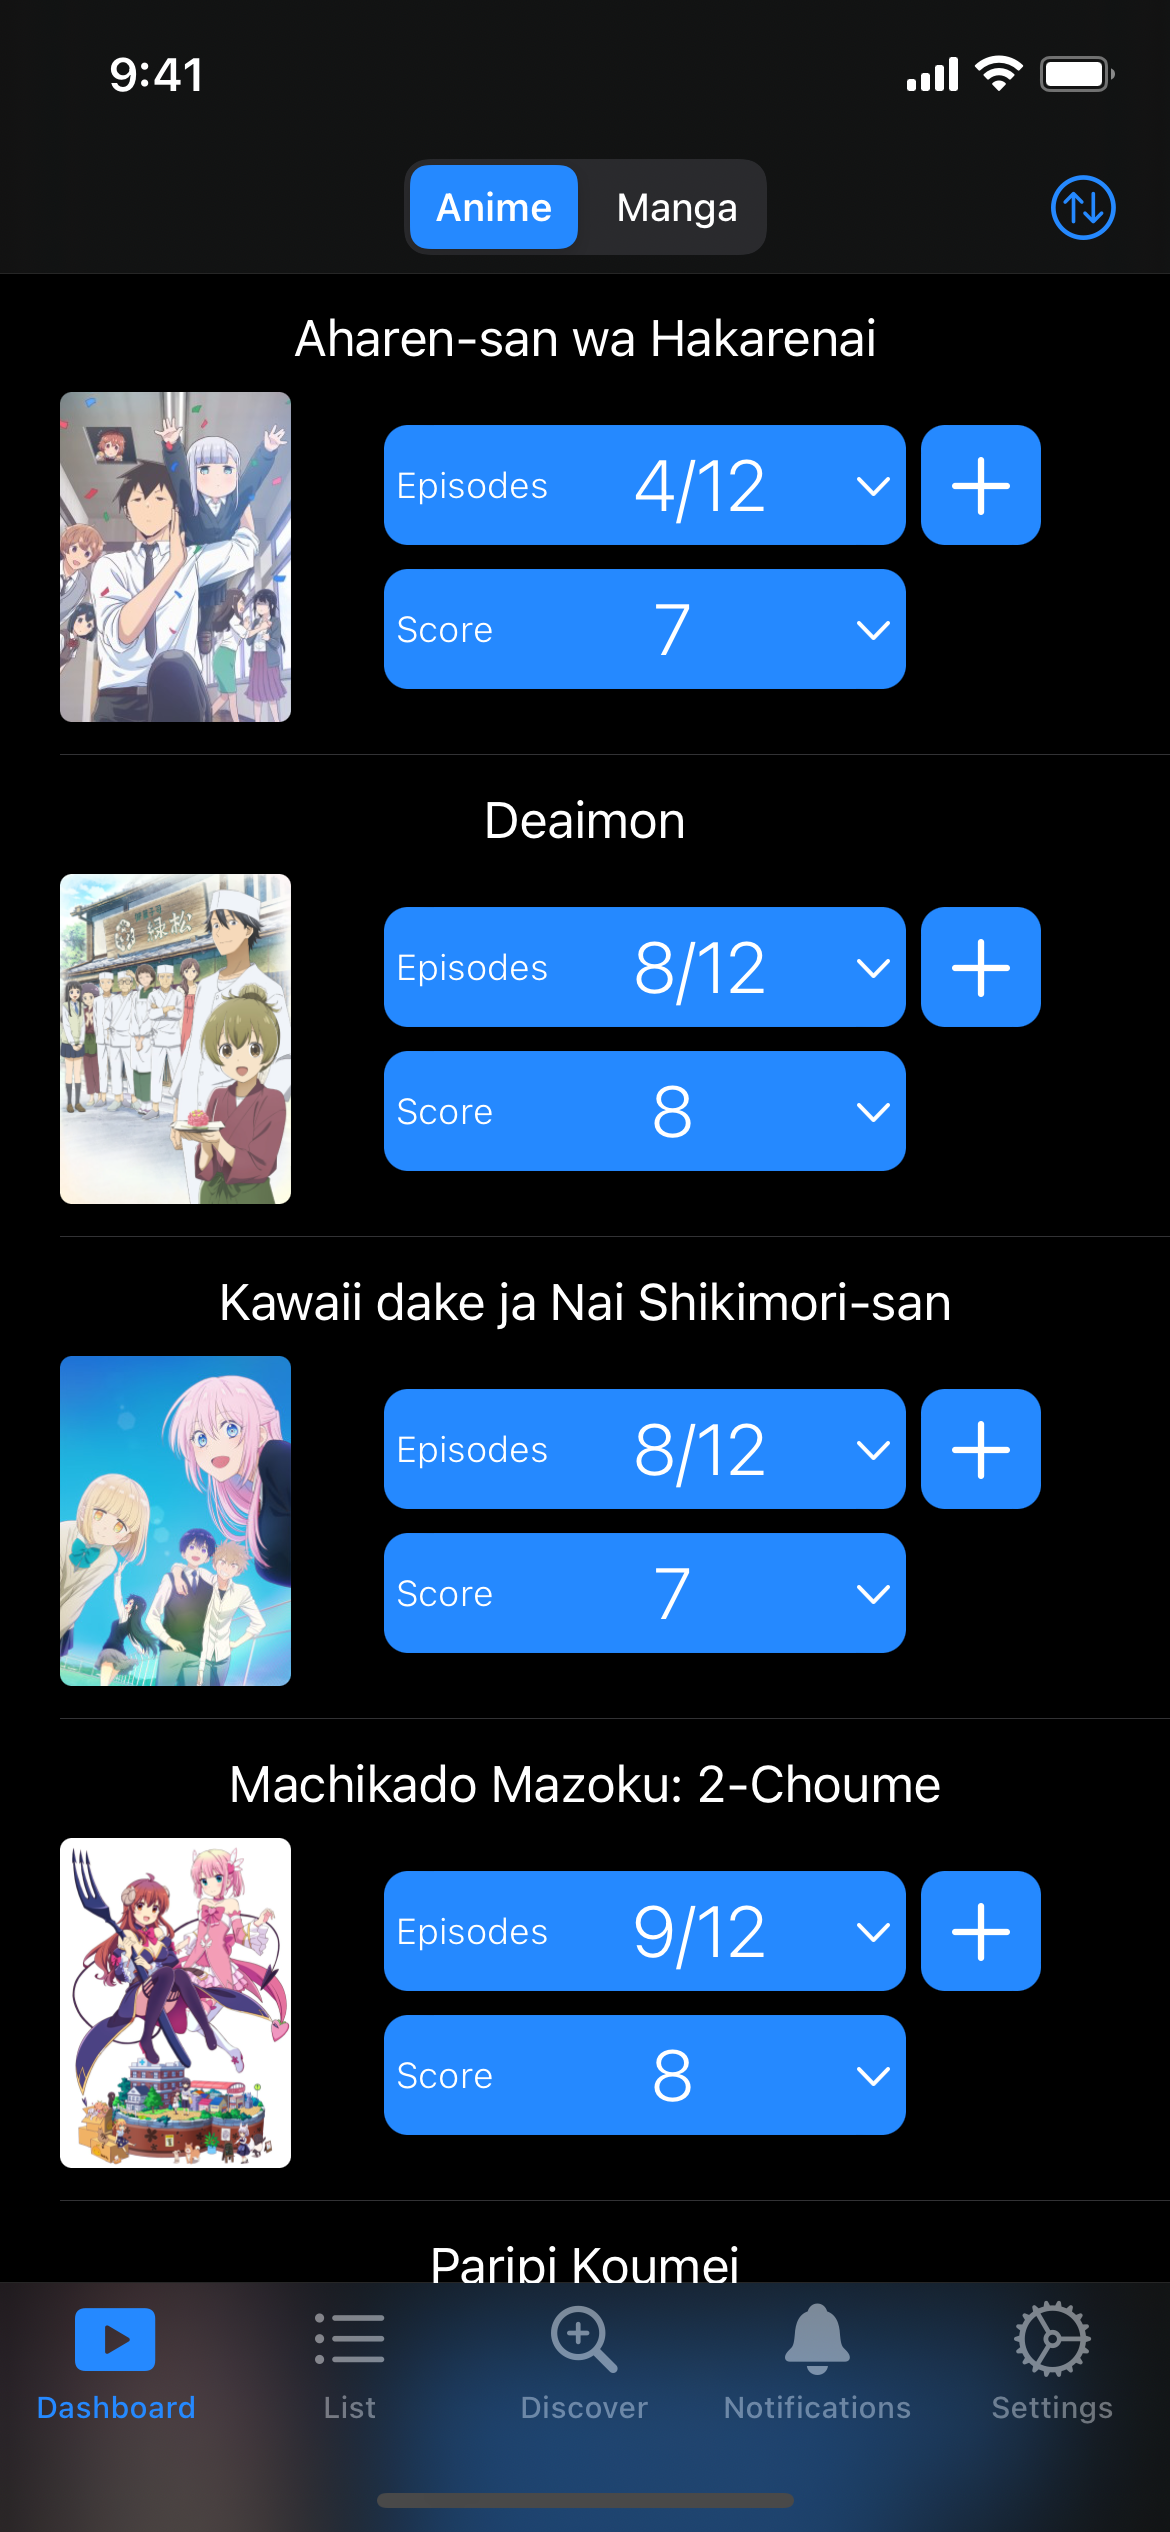
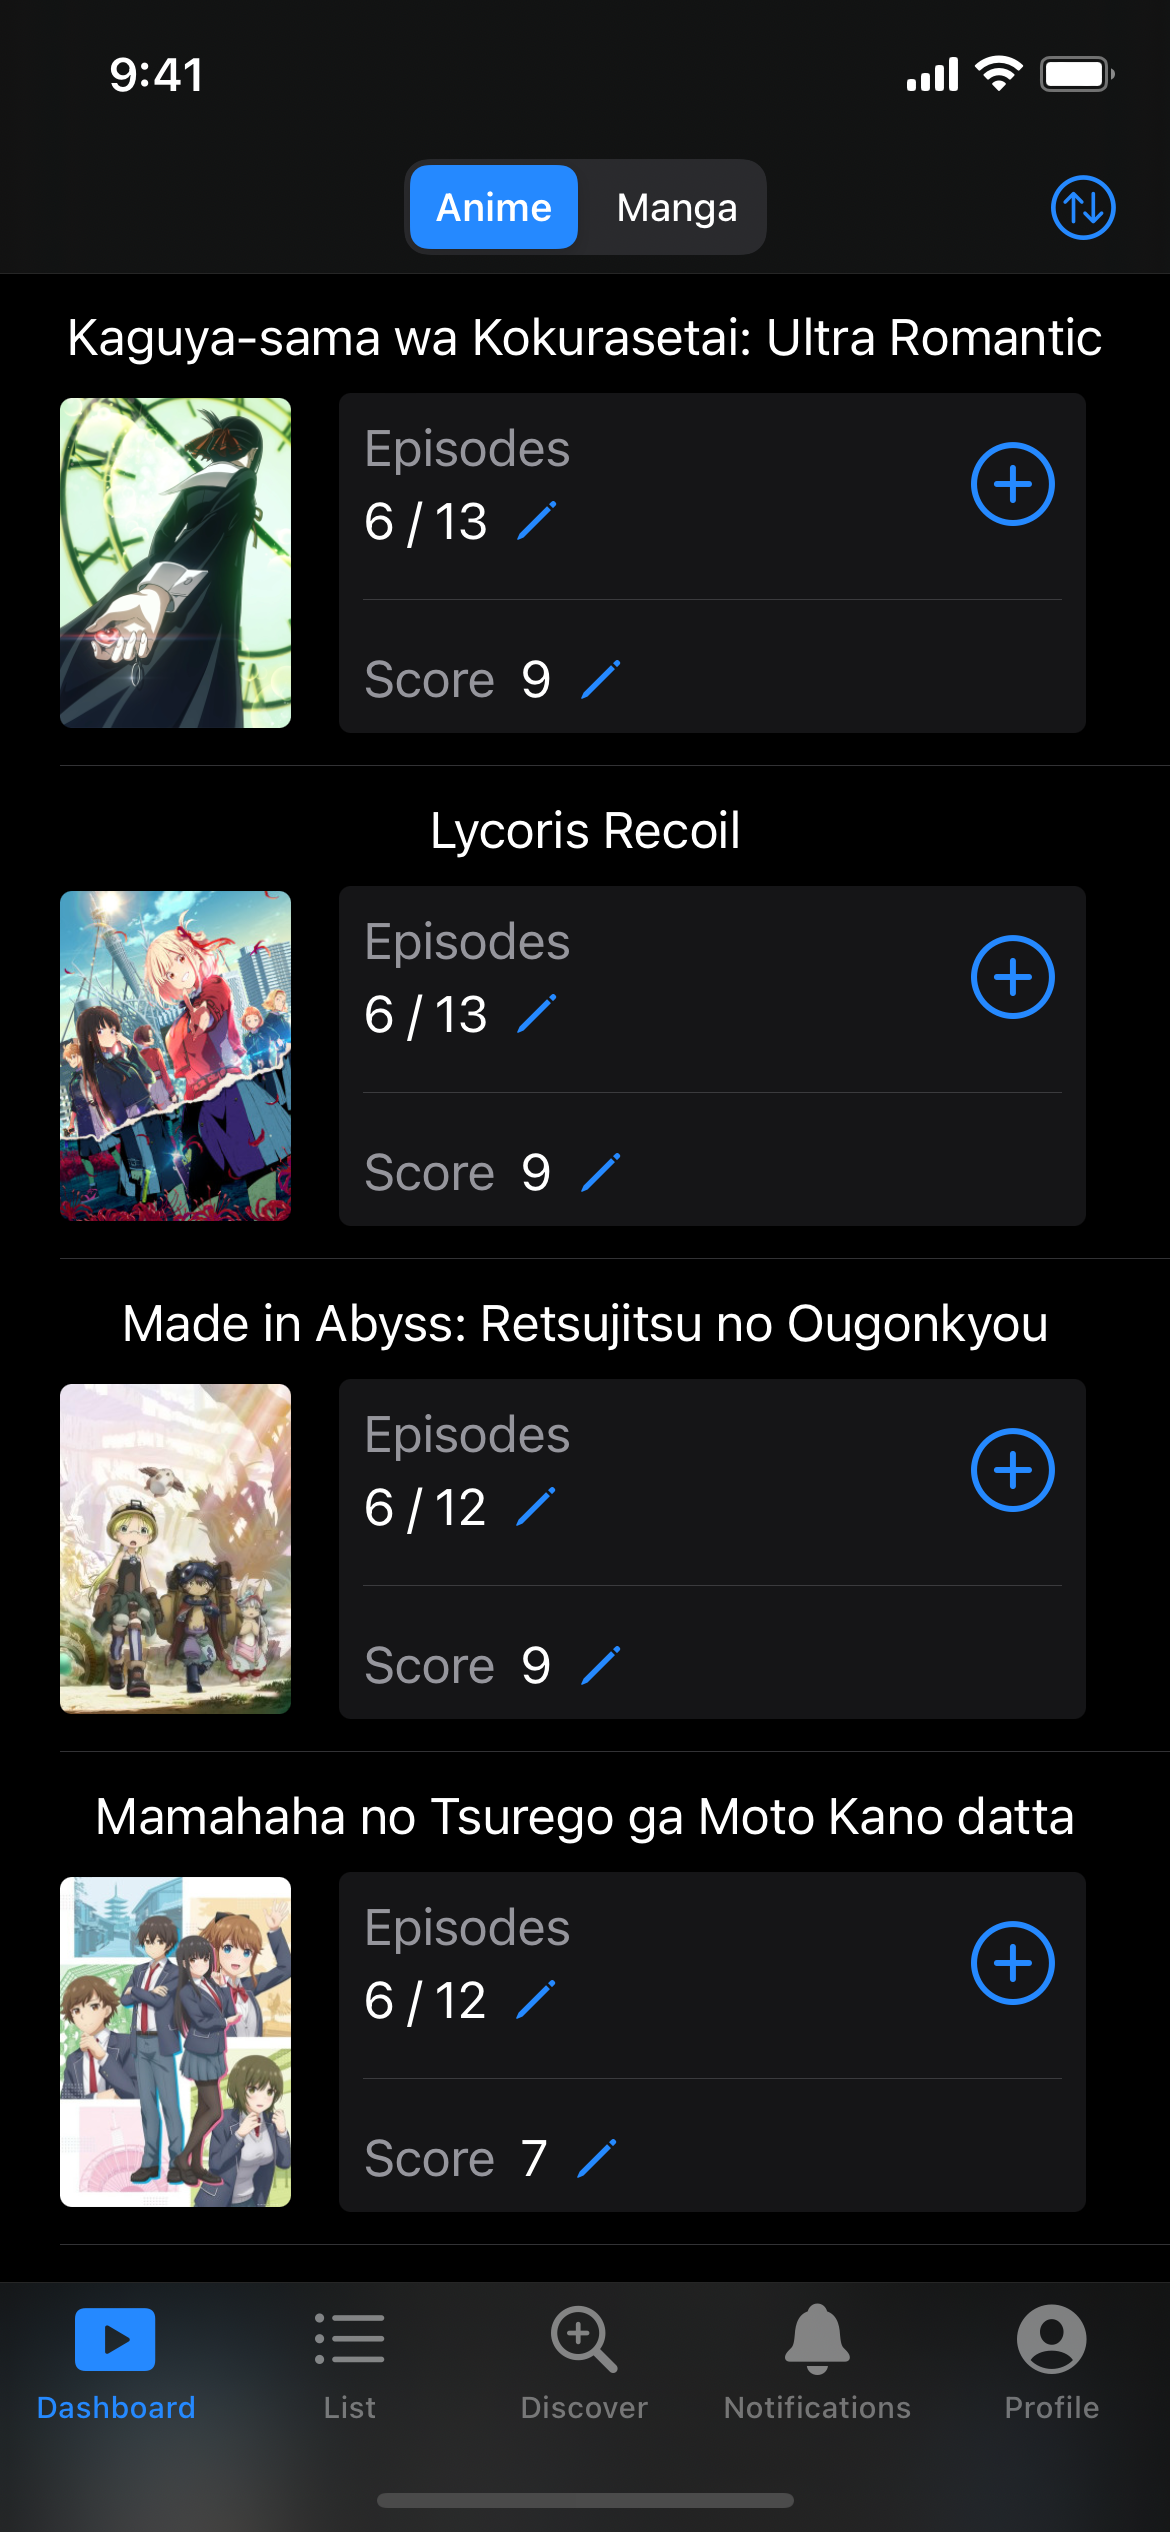
Update screenshots, feature blurbs

diff --git a/content/_index.html b/content/_index.html
@@ -132,11 +132,22 @@ title = "Ryuusei"
 
   <div class="featureBlock">
     <div class="featureDescription">
-      <h2>Light or Dark</h2>
+      <h2>Crunch Numbers</h2>
       <p>
-        Supports light and dark mode based on your system settings.
+        Get statistics on your anime and manga habit. Check out other users' stats and follow them if they have good taste.
       </p>
     </div>
-    {{< img src="img/screenshots/07-1 Dashboard Light.png" alt="Screenshot of the Dashboard in light mode" resize="x1000" >}}
+    {{< img src="img/screenshots/07-1 Profile.png" alt="Screenshot of the Profile screen" resize="x1000" >}}
+  </div>
+
+  <div class="featureBlock">
+    <div class="featureDescription">
+      <h2>Colorful 🎨</h2>
+      <p>
+        Supports light and dark mode based on your system settings or manual toggle.
+        Choose an accent color to use throughout the app.
+      </p>
+    </div>
+    {{< img src="img/screenshots/08-1 Dashboard Light.png" alt="Screenshot of the Dashboard in light mode" resize="x1000" >}}
   </div>
 </div>
